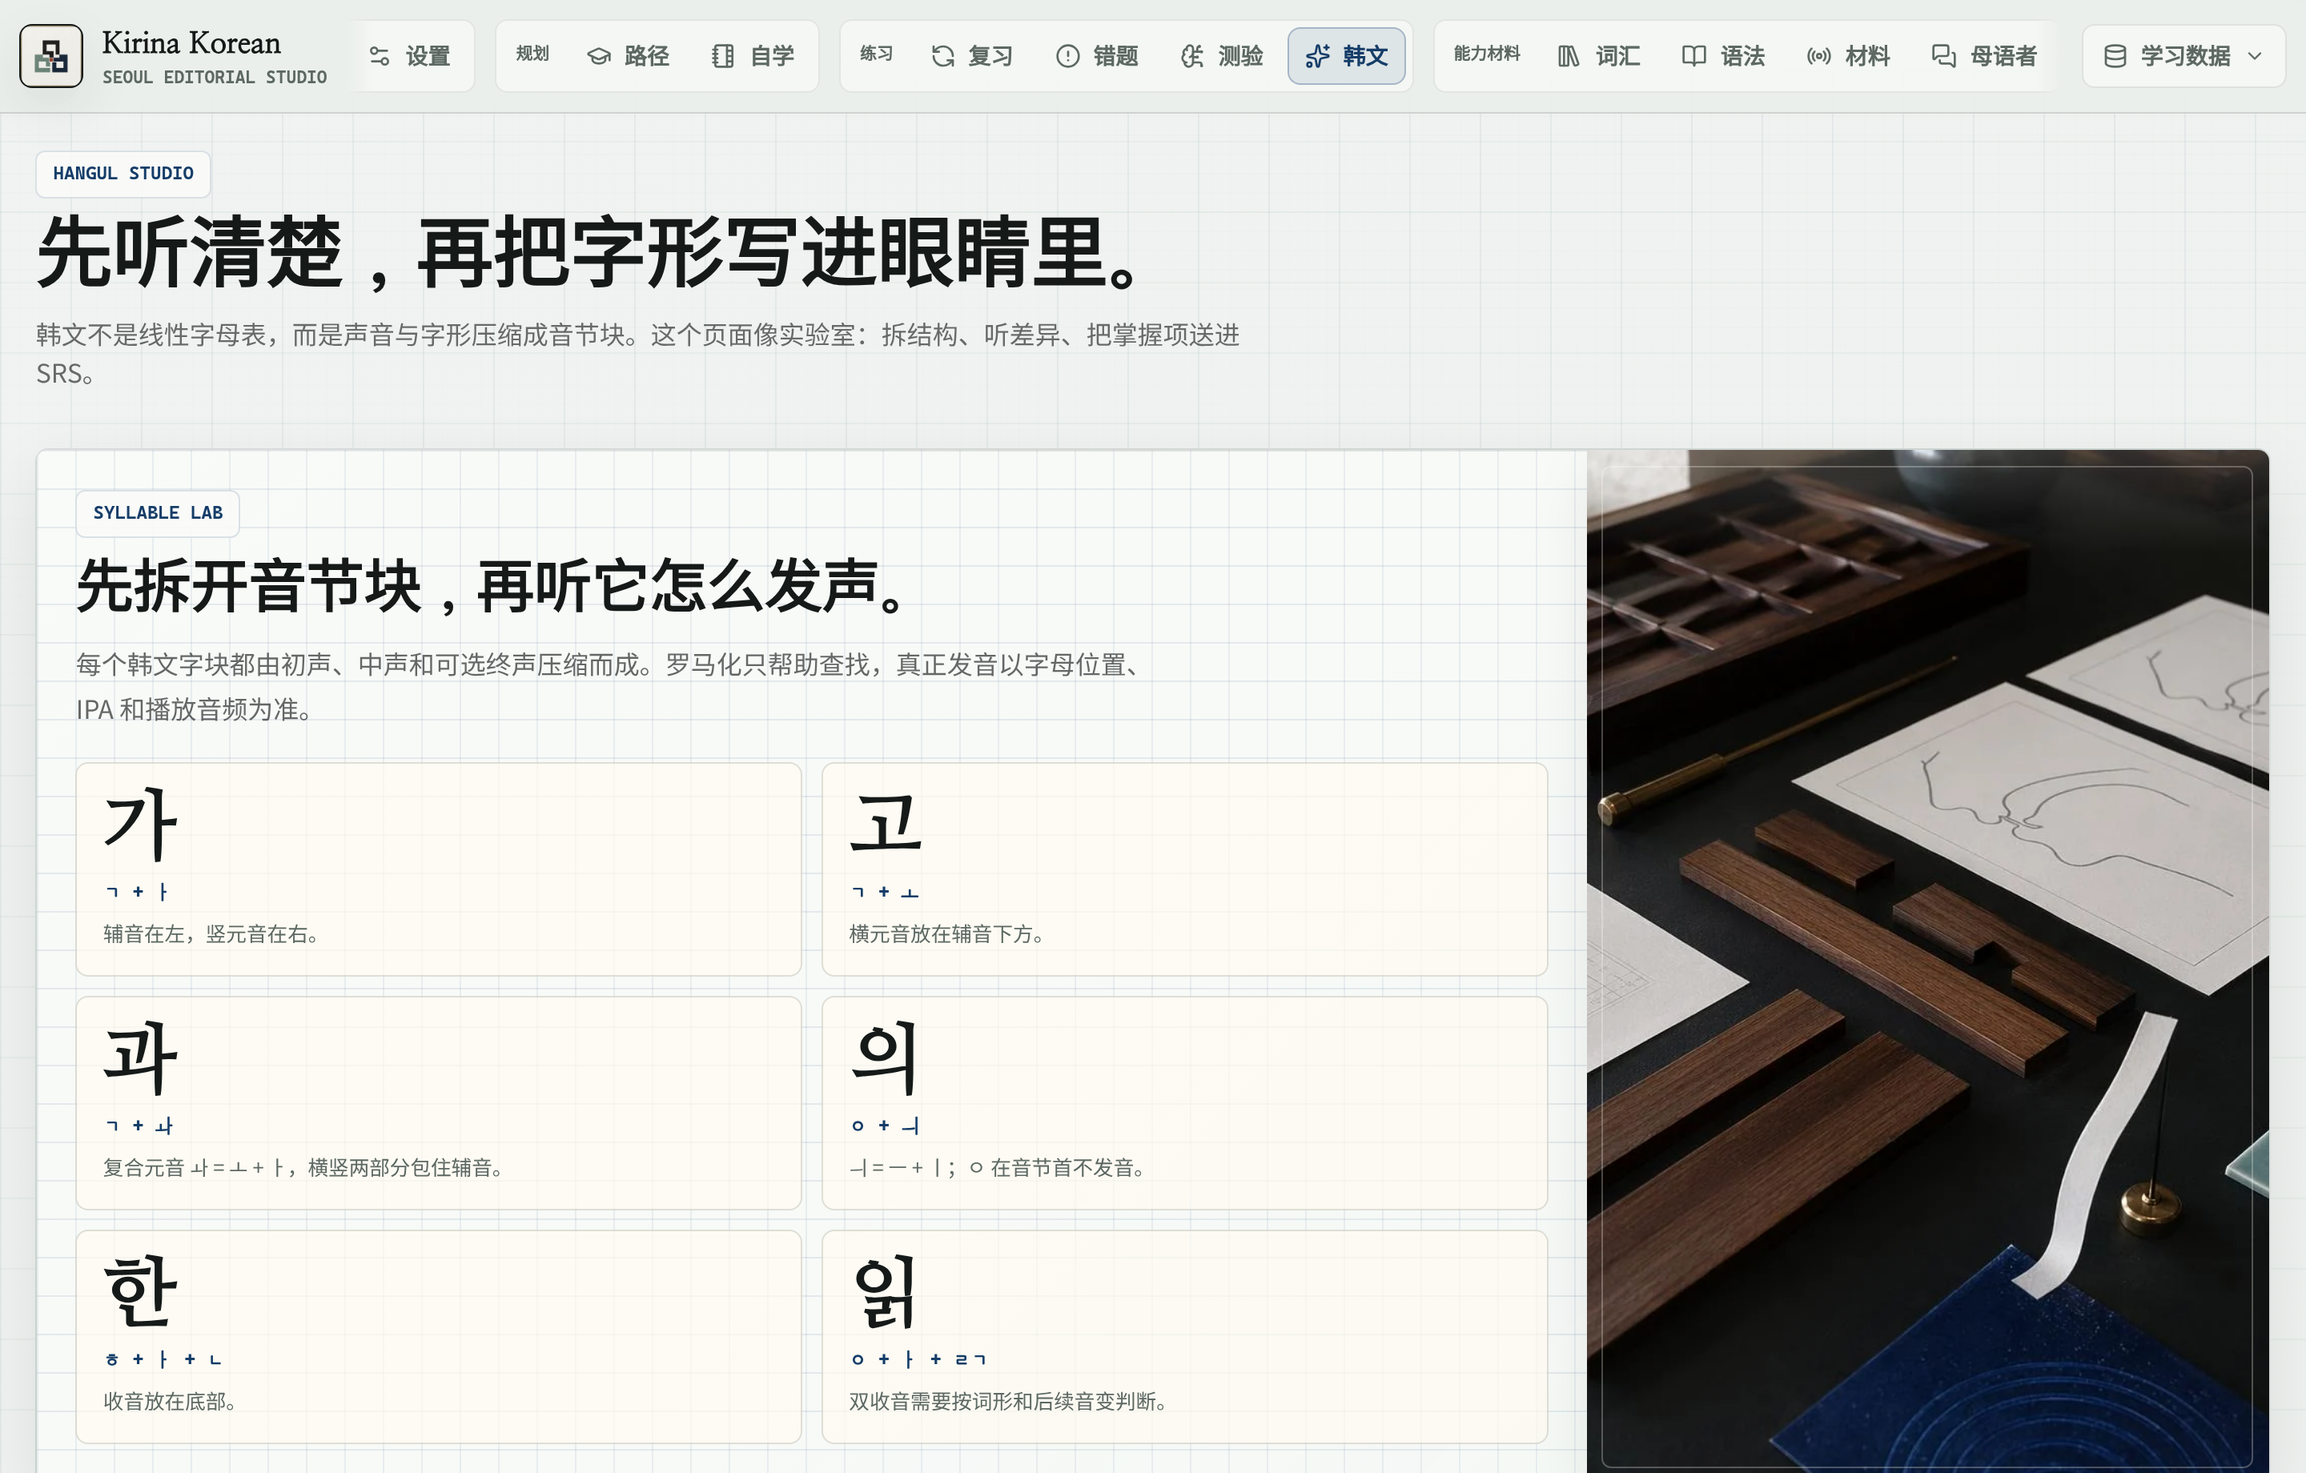
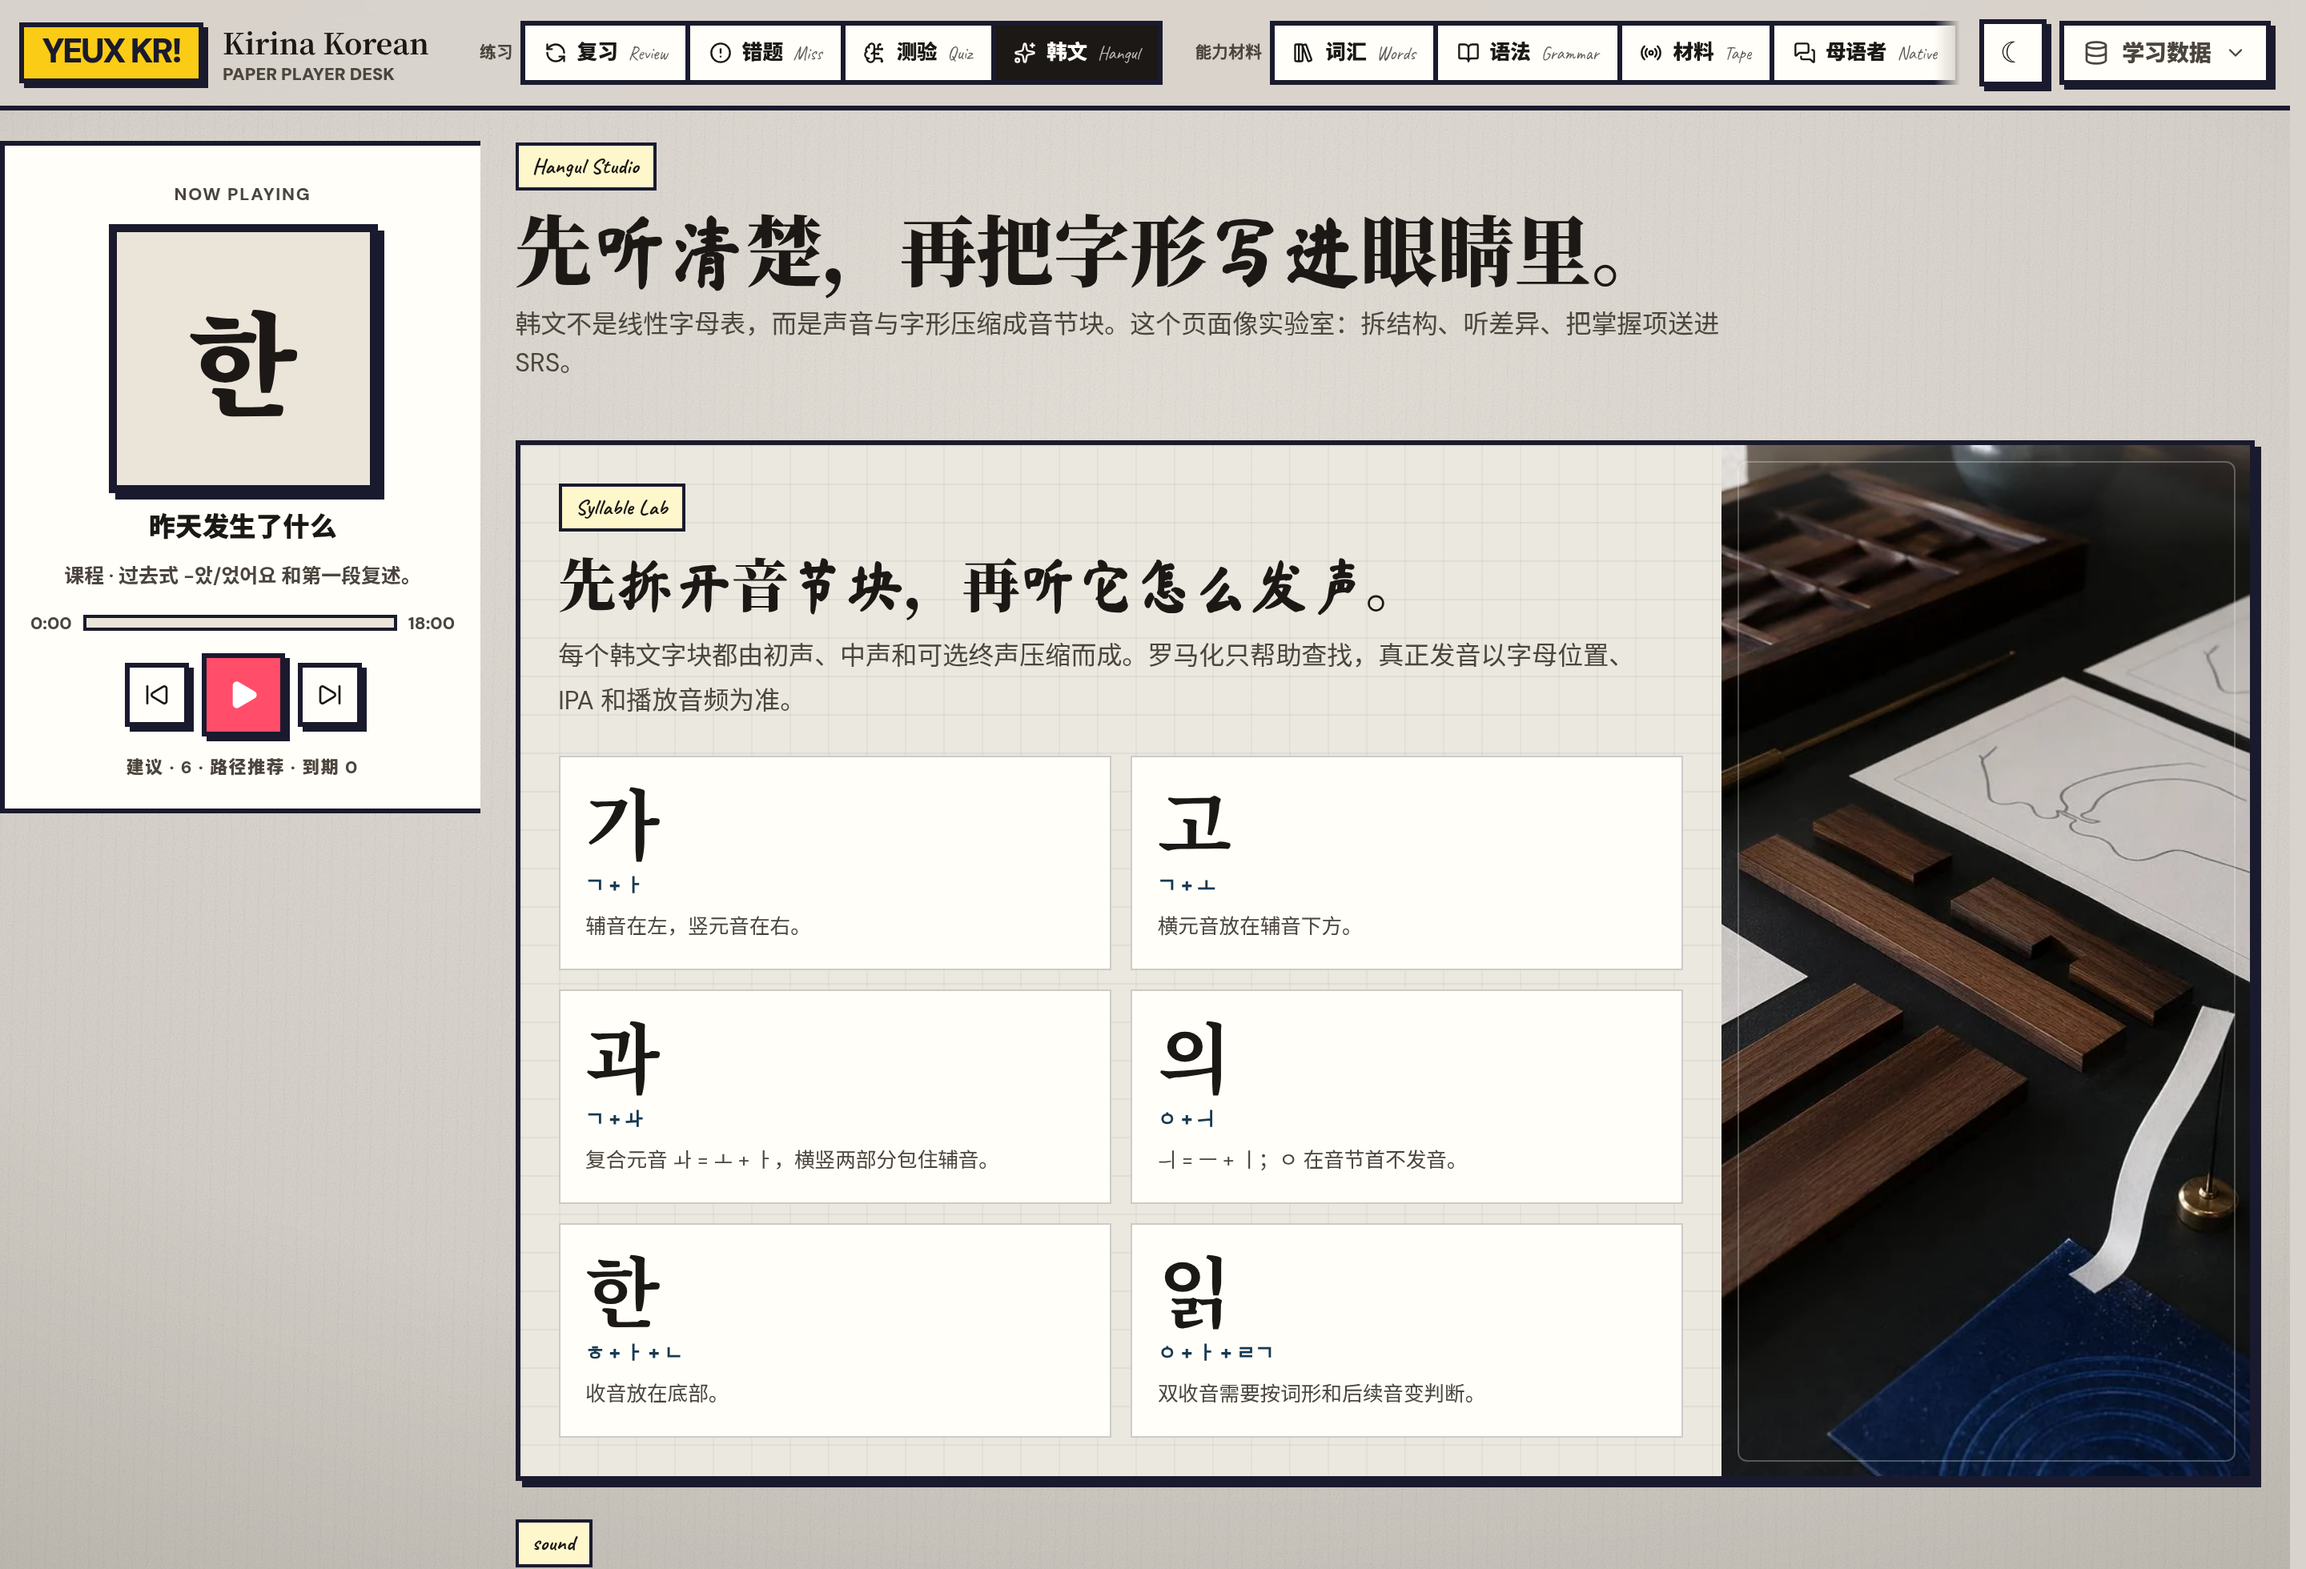
Refresh README screenshots for the YEUX KR player desk.
Replace the stale Seoul Editorial Atlas shots with live captures of the current paper player: Desk, Now Playing rail, path, Hangul Studio, immersion materials, cafe lesson, and due-review queue. Update the Chinese intro and captions to YEUX KR 韩语播放器, and add a capture script so the showcase can be re-shot from a running app.

diff --git a/README.md b/README.md
@@ -1,30 +1,31 @@
 # Kirina Korean
 
-Kirina Korean 是一个从零基础开始学习韩语的 Next.js 在线学习应用。当前设计方向是 **Seoul Editorial Learning Atlas**：成人学习、首尔编辑部感、纸本学习资产、韩文字形、青瓷绿、深海蓝、朱砂红和黄铜细节。
+Kirina Korean 是一个从零基础开始学习韩语的 Next.js 在线学习应用。界面品牌是 **YEUX KR!**，标题为 **Kirina Korean | YEUX KR 韩语播放器**。产品形态是纸面上的韩语学习唱机：暖灰纸面、厚边框 Desk 导航、左栏 Now Playing、右侧今日歌单。路径、复习和真实材料共用同一条播放队列。
 
-![学习工作台](docs/screenshots/hero-workspace.png)
+![YEUX KR 播放器工作台](docs/screenshots/hero-desk.png)
 
-<p align="center"><em>学习工作台：路径推荐、到期复习和能力护照收在同一张今日地图上。</em></p>
+<p align="center"><em>Desk：YEUX KR! stamp、厚边框顶栏，以及左栏 Now Playing。下一步像当前曲一样常驻，黄键只给开播。</em></p>
 
 ### 产品界面
 
-| Hangul Studio | Immersion Lab |
+| Hangul Studio | Immersion / 材料 |
 |:---:|:---:|
 | ![韩文实验室](docs/screenshots/hangul.png) | ![情境材料](docs/screenshots/immersion.png) |
-| 韩文实验室：拆音节块、听对立，再把掌握项送进 SRS。 | 咖啡店真实语速：逐句听读、遮译文听写与复述检查。 |
+| 韩文实验室：拆音节块、听对立，再把掌握项送进 SRS。 | 材料轨：逐句听读、遮译文听写与复述检查，排进同一条播放队列。 |
 
 | 五阶段路径 | 间隔复习 |
 |:---:|:---:|
 | ![学习路径](docs/screenshots/path.png) | ![SRS 复习](docs/screenshots/review.png) |
-| 五阶段能力路线：从文字对齐走到母语者语用。 | 到期队列：韩文、词汇和错题进入同一套间隔复习。 |
+| Path：五阶段能力路线，从文字对齐走到母语者语用。 | 到期队列：韩文、词汇和错题进入同一套间隔复习。 |
 
 ![咖啡店点单课](docs/screenshots/lesson.png)
 
-<p align="center"><em>课程页：目标、讲解、听读和练习共用同一份进度证据。</em></p>
+<p align="center"><em>课程页仍是同一台唱机：目标、讲解、听读和练习共用进度证据，Now Playing 指向下一首。</em></p>
 
 ## 当前能力
 
 - Next.js 16 + React 19 + TypeScript + Tailwind。
+- 壳层是 **YEUX KR Player Desk**：顶栏 Desk 导航、左栏 Now Playing / 底栏迷你播放条、推荐任务排成播放队列。学习引擎（路径、SRS、工作台）不变。
 - Web App manifest 与图标位于 `public/`；课程始终联网加载，不注册 Service Worker 或离线学习包。
 - 学习方式支持“路径推荐”和“自由自学”，两者共用同一套进度、SRS、输出档案和能力护照。
 - `LearningWorkspace` 会综合课程进度、自学目标、能力短板和 SRS 到期状态，生成推荐任务和自由入口。
@@ -52,6 +53,8 @@ npm run check:smoke
 ```
 
 `check:smoke` 需要先执行 `npm run build`，然后会在测试进程内启动 Next production server，连续运行 HTTP 与浏览器 smoke，并在结束时关闭服务，不留下后台 Node 进程。
+
+README 顶部截图来自当前运行中的应用，可用 `KIRINA_URL=http://127.0.0.1:3000 npm run docs:screenshots` 在本机重拍。
 
 ## 结构
 
@@ -81,9 +84,9 @@ scripts/validate.mjs       # 数据、应用元信息、视觉资产校验
 
 ## 图片资产
 
-当前视觉资产包括 hero、workspace、path、selfStudy、hangul、vocabulary、grammar、native、immersion、quiz、lesson、review、complete、empty。
+当前视觉资产包括 hero、workspace、path、selfStudy、hangul、vocabulary、grammar、native、immersion、quiz、lesson、review、complete、empty。这些是页面静物，不是界面 mock。
 
-生成美学约束：Seoul Editorial Learning Atlas、premium Korean stationery、warm paper texture、abstract Hangul typography、celadon green、deep ocean blue、cinnabar red、brass details；禁止人物、水印、UI 截图和可读中英文文本。
+生成美学约束：纸本韩文静物、warm paper texture、abstract Hangul typography；禁止人物、水印、UI 截图和可读中英文文本。应用壳层是 YEUX KR Player Desk（暖灰纸 + 厚边框播放器），不要把静物图做成旧 Seoul Editorial 界面。
 
 每张资产都需要：
 
